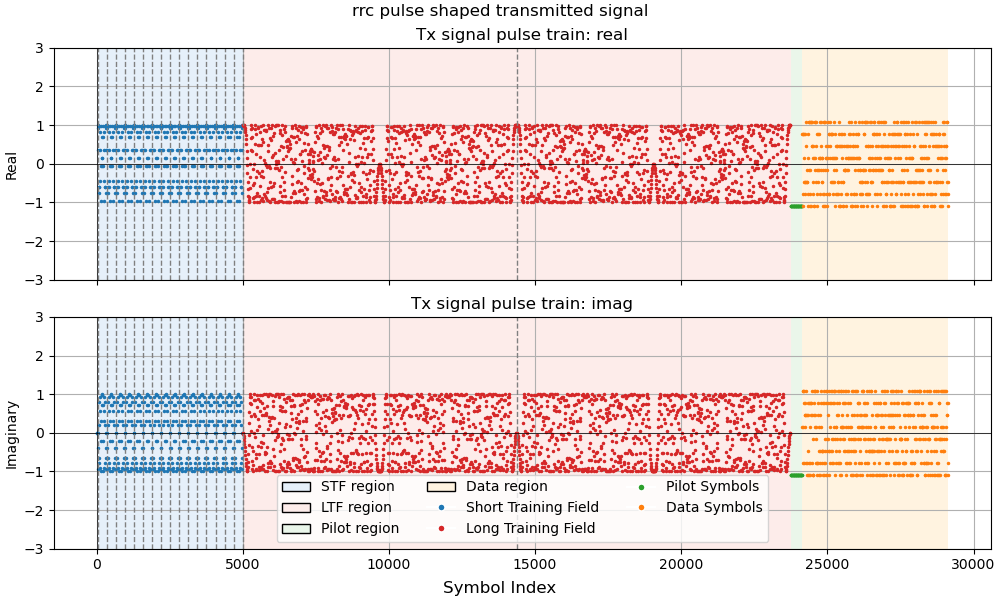
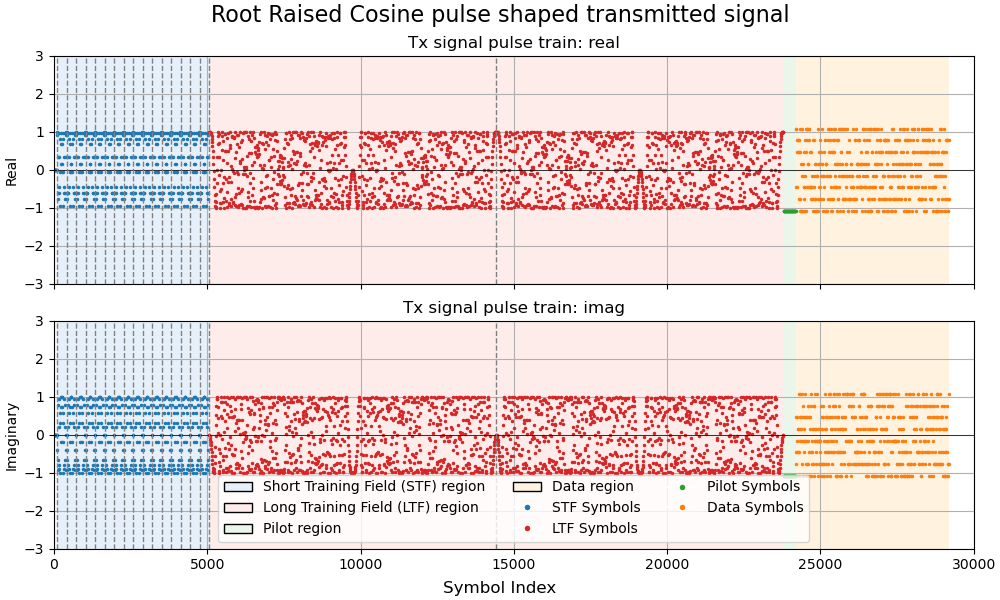
cleanup: some chore and updating readme

diff --git a/src/plotting.py b/src/plotting.py
@@ -41,18 +41,16 @@ def plot_tx_signal(config, tx_signal):
   idx_pilot_end = idx_ltf_end + config.N_pilots
   idx_syms_end  = idx_pilot_end + config.N_syms
   idx_zeros_end = idx_syms_end + int(config.N_syms/10)
+  print(len(tx_signal)/10)
 
-  print("idx_stf_end: ", idx_stf_end)
-
-  print(idx_ltf_end*config.sps)
   t = np.arange(0, len(tx_signal))
   fig, axs = plt.subplots(nrows=2, ncols=1, sharex=True, figsize=(10, 6), constrained_layout=True)
-  fig.suptitle("rrc pulse shaped transmitted signal")
+  fig.suptitle("Root Raised Cosine pulse shaped transmitted signal", fontsize=16)
 
   # STF stem
   markerline1, stemlines1, baseline1 = axs[0].stem(
-      np.arange(start=idx_stf_begin*config.sps, step=config.sps, stop=idx_stf_end*config.sps),
-      tx_signal.real[::config.sps][idx_stf_begin:idx_stf_end],
+      np.arange(start=0, step=config.sps, stop=idx_stf_end*config.sps),
+      tx_signal.real[::config.sps][:(int(config.span/2)+config.reps_STF*config.N_STF)],
       markerfmt='.', linefmt='', label='Short Training Field'
   )
   plt.setp(markerline1, markersize=3)
@@ -104,6 +102,8 @@ def plot_tx_signal(config, tx_signal):
     axs[0].axvline(x, color='gray', linestyle='--', linewidth=1)
   for x in idx_ltf_separating_dashed:
     axs[0].axvline(x, color='gray', linestyle='--', linewidth=1)
+
+  # Region highlighting
   axs[0].axvspan(idx_stf_begin*config.sps, idx_stf_end*config.sps, facecolor=background_colors[0], alpha=1)
   axs[0].axvspan(idx_stf_end*config.sps, idx_ltf_end*config.sps, facecolor=background_colors[1], alpha=1)
   axs[0].axvspan(idx_ltf_end*config.sps, idx_pilot_end*config.sps, facecolor=background_colors[2], alpha=1)
@@ -111,6 +111,7 @@ def plot_tx_signal(config, tx_signal):
   axs[0].set_title("Tx signal pulse train: real")
   axs[0].set_ylabel("Real")
   axs[0].grid(True)
+  axs[0].set_xlim([0, 30000])
   axs[0].set_ylim([-3, 3])
 
   # STF (Imag part)
@@ -168,9 +169,10 @@ def plot_tx_signal(config, tx_signal):
   axs[1].set_title("Tx signal pulse train: imag")
   axs[1].set_ylabel("Imaginary")
   axs[1].grid(True)
+  axs[1].set_xlim([0, 30000])
   axs[1].set_ylim([-3, 3])
 
-  # Region highlighting (same as above, optional)
+  # Region highlighting
   axs[1].axvspan(idx_stf_begin*config.sps, idx_stf_end*config.sps, facecolor=background_colors[0], alpha=1)
   axs[1].axvspan(idx_stf_end*config.sps, idx_ltf_end*config.sps, facecolor=background_colors[1], alpha=1)
   axs[1].axvspan(idx_ltf_end*config.sps, idx_pilot_end*config.sps, facecolor=background_colors[2], alpha=1)
@@ -178,15 +180,15 @@ def plot_tx_signal(config, tx_signal):
 
   # Region patches (shared for both)
   region_patches = [
-      Patch(facecolor=background_colors[0], edgecolor='black', label='STF region', alpha=1),
-      Patch(facecolor=background_colors[1], edgecolor='black', label='LTF region', alpha=1),
+      Patch(facecolor=background_colors[0], edgecolor='black', label='Short Training Field (STF) region', alpha=1),
+      Patch(facecolor=background_colors[1], edgecolor='black', label='Long Training Field (LTF) region', alpha=1),
       Patch(facecolor=background_colors[2], edgecolor='black', label='Pilot region', alpha=1),
       Patch(facecolor=background_colors[3], edgecolor='black', label='Data region', alpha=1),
   ]
 
   marker_handles = [
-    Line2D([0], [0], marker='o', color='w', label='Short Training Field', markerfacecolor=markercolor_list[0], markersize=5),
-    Line2D([0], [0], marker='o', color='w', label='Long Training Field', markerfacecolor=markercolor_list[1], markersize=5),
+    Line2D([0], [0], marker='o', color='w', label='STF Symbols', markerfacecolor=markercolor_list[0], markersize=5),
+    Line2D([0], [0], marker='o', color='w', label='LTF Symbols', markerfacecolor=markercolor_list[1], markersize=5),
     Line2D([0], [0], marker='o', color='w', label='Pilot Symbols', markerfacecolor=markercolor_list[2], markersize=5),
     Line2D([0], [0], marker='o', color='w', label='Data Symbols', markerfacecolor=markercolor_list[3], markersize=5),
   ]
@@ -204,5 +206,5 @@ def plot_tx_signal(config, tx_signal):
   # fig.tight_layout(rect=[0, 0.1, 1, 1])
 
   fig.supxlabel("Symbol Index")
-  # plt.savefig("figs/rrc_pulse_shaped_transmitted_signal.png")
+  plt.savefig("figs/rrc_pulse_shaped_transmitted_signal.png")
   plt.show()

diff --git a/main.py b/main.py
@@ -16,7 +16,7 @@ def main(tx_gain_dB=-25, M=64):
   ts = 1 / fs  # baseband sampling period (seconds per sample)
   config = SimpleNamespace(**dict(
     sps       = 10,
-    span      = 8,
+    span      = 20,
     N_syms    = 500,    # generate N random M-QAM symbols
     N_pilots  = 40, 
     N_STF     = 31,     # short training field (STF)
@@ -121,23 +121,38 @@ def main(tx_gain_dB=-25, M=64):
   # ---------------------------------------------------------------
   rx_signal_filtered = np.convolve(rx_signal, pulse_shape, mode='same') / config.sps
 
+  print(rx_signal_filtered[:10])
+
   # ---------------------------------------------------------------
-  # Time Synchronization
+  # Symbol Synchronization
   # ---------------------------------------------------------------
-  ## symbol synchronization
   tau_d = sync.coarse_symbol_sync(config.sps, rx_signal_filtered)
   print("tau_d = ", tau_d)
-  symbol_synched_chunk = rx_signal_filtered[tau_d::config.sps]
+  symbol_synched_downsampled_rx_signal = rx_signal_filtered[tau_d::config.sps]
 
   # ---------------------------------------------------------------
   # Long Training Field Frame Synchronization
   # ---------------------------------------------------------------
   # Under CFO, you can't immediately do the correlation based frame sync,
   # but if two ZCs are back to back, then we can exploit this for frame synch.
-  d_hat, corr_val_list = sync.long_training_field_frame_sync(config, symbol_synched_chunk)
+  d_hat, corr_val_list = sync.long_training_field_frame_sync(config, symbol_synched_downsampled_rx_signal)
   print("d_hat = ", d_hat)
-  plt.stem(corr_val_list)
-  plt.show()
+
+  idx_best_downsampled_chunk_begin  = d_hat-config.reps_STF*config.N_STF
+  idx_best_downsampled_chunk_end    = idx_best_downsampled_chunk_begin + config.reps_STF*config.N_STF + config.reps_LTF*config.N_LTF + config.N_pilots + config.N_syms + int(config.N_syms/10)
+  one_downsampled_chunk = symbol_synched_downsampled_rx_signal[idx_best_downsampled_chunk_begin : idx_best_downsampled_chunk_end]
+  print("one_downsampled_chunk length", len(one_downsampled_chunk))
+
+  # ---------------------------------------------------------------
+  # Short Training Field Coarse Frequency Synchronization
+  # ---------------------------------------------------------------
+  coarse_CFO_estimate = sync.STF_coarse_frequency_sync(config, one_downsampled_chunk, T)
+  print("coarse_CFO_estimate: ", coarse_CFO_estimate)
+
+  # ---------------------------------------------------------------
+  # Long Training Field Fine Frequency Synchronization
+  # ---------------------------------------------------------------
+
   # ltf_correlation = np.correlate(symbol_synched_chunk, ltf)
   # ltf_begin_index = np.argmax(abs(ltf_correlation[len(stf):len(ltf_correlation)-]))
   # stf_begin_index = ltf_begin_index - len(stf)

diff --git a/src/synchronization.py b/src/synchronization.py
@@ -78,10 +78,26 @@ def long_training_field_frame_sync(config, signal):
     second_segment = signal[d+config.N_LTF : d+2*config.N_LTF]
 
     correlation_val = np.abs(np.correlate(first_segment, second_segment, mode='valid'))**2 / (np.abs(first_segment_magnitude)**2)
-    print(correlation_val)
     correlation_value_list.append(correlation_val)
     if correlation_val > best_correlation_val:
       best_correlation_val = correlation_val
       d_hat = d
 
   return d_hat, correlation_value_list
+
+def STF_coarse_frequency_sync(config, one_downsampled_chunk, T):
+  first_segment_STFs = one_downsampled_chunk[0:(config.reps_STF-1)*config.N_STF]
+  second_segment_STFs = one_downsampled_chunk[config.N_STF:config.reps_STF*config.N_STF]
+
+  # first_segment_STFs = one_downsampled_chunk[config.N_STF:(config.reps_STF-2)*config.N_STF]
+  # second_segment_STFs = one_downsampled_chunk[2*config.N_STF:(config.reps_STF-1)*config.N_STF]
+
+  print("first 10 of first segment STF: ", first_segment_STFs[:config.N_STF])
+  print("first 10 of second segment STF: ", second_segment_STFs[:config.N_STF])
+  print("third 10 segment of STF: ", second_segment_STFs[config.N_STF:2*config.N_STF])
+
+
+  correlation_value = np.sum(np.conjugate(first_segment_STFs)*second_segment_STFs)
+  print("correlation value: ", correlation_value)
+
+  return (1/(2*np.pi*config.N_STF*T)) * np.angle(correlation_value)

diff --git a/README.md b/README.md
@@ -1,8 +1,57 @@
+# Communication Chain on Software Defined Radio
+The project consists of the following:
+1. [System Design](#system-design)
+1. [Pulse shaping](#pulse-shaping)
+2. [Symbol and Frame Synchronization](#symbol-and-frame-synchronization)
 
+## System Design
+<p align="center">
+  <img src="figs/system_design.png" width="800"/>
+  <br>
+  <em>Figure 1: System Design</em>
+</p>
+
+As a preview, here are the steps taken inside the signal processing (yellow background) block.
+
+- **Symbol Synchronization**: maximum output energy (MOE) is used as the criterion for choosing the symbol indices from all samples.
+
+- **Frame Synchronization**: $N_{LTF}$ repeating long training fields (LTF) are used to synchronize the data frame.
+
+- **Frequency Synchronization**: $N_{LTF}$ LTFs and $N_{STF}$ short training fields (STF) are used for coarse and fine frequency synchronization which arises from the difference in frequencies between the local oscillators on transmitter and receiver.
+
+- **Channel Estimation**: dedicated pilot symbols are employed to estimate the impulse response of the channel.
+
+- **Channel Equalization**: this step corrects phase shifts and amplitude scaling.
+
+## Pulse Shaping
+The purpose of pulse shaping is to constrain and suppress noise at the receiver side. A simple low-pass filter at the receiver will significantly decrease noise power. Without shaping at the receiver, the noise power will be infinity.
+In addition, to maximize SNR<sup>[1](#1)</sup>, a match filtering approach is used, which means that the transmitter and receiver each uses a root raised cosine pulse shape.
 
 Transmitted signal with Root Raised-Cosine pulse shaping at the transmitter,
 
 <p align="center">
-<img src="figs/rrc_pulse_shaped_transmitted_signal.png" width="800"/>
+  <img src="figs/rrc_pulse_shaped_transmitted_signal.png" width="800"/>
+  <br>
+  <em>Figure 2: RRC pulse shaped transmitted signal</em>
 </p>
 
+
+## Symbol and Frame Synchronization
+
+## Appendix
+<a id="appendix-a"></a>
+
+### 1 
+Match filter means $g_{rx}(t) = g_{tx}(-t)^*$. This can be proved using the definition of SNR and Cauchy-Schwarz inequality.
+
+$$\text{SNR} = \frac{E_s \cdot |p(0)|^2}{N_o \cdot \| g_{rx} \|^2},$$
+where $p(t) = g_{rx}(t) * g_{tx}(t)$ is the effective pulse shape. By definition of convolution,
+
+$$
+\begin{align}
+  p(0) &= \int_{-\infty}^{\infty} g_{rx}(\tau) g_{tx}(0-\tau) d\tau \nonumber \\
+  &= \int_{-\infty}^{\infty} g_{rx}(\tau) g_{tx}(-\tau) d\tau \nonumber \\
+  |p(0)|^2 &= \left| \int_{-\infty}^{\infty} g_{rx}(\tau) g_{tx}(-\tau) d\tau \right|^2 \nonumber \\
+  & \le \| g_{rx}\|^2 \cdot \| g_{tx} \|^2, && \text{(Cauchy Schwarz Inequality)}\nonumber
+\end{align}$$
+with equality satisfied when $g_{rx}(t) = c \cdot g_{tx}(-t)^* $ for any constant $c$.
